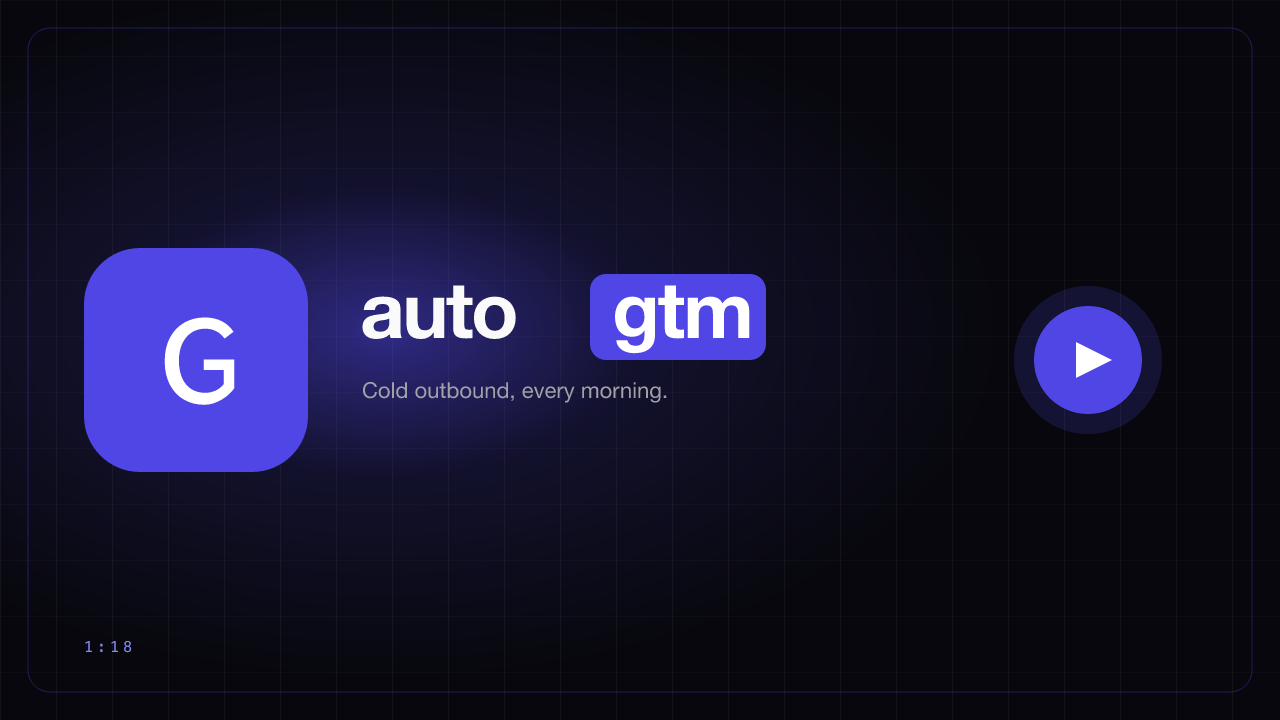
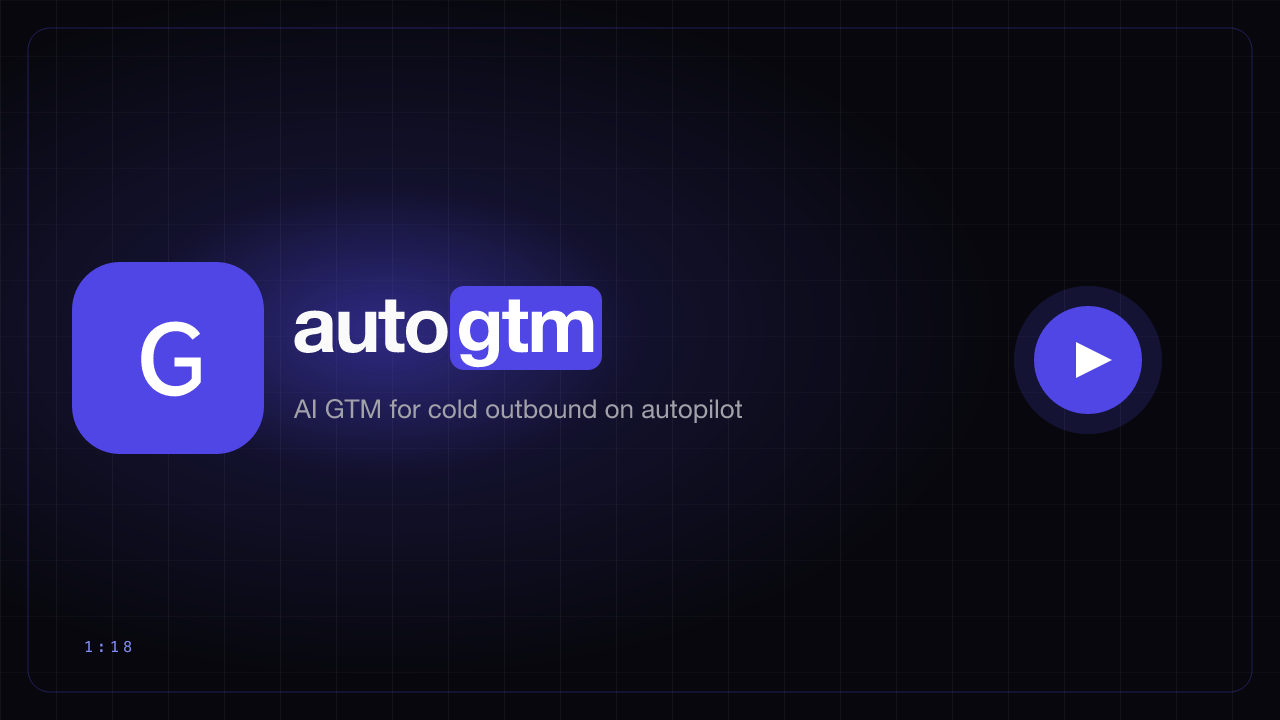
Restore the README and tighten the demo poster.
The old copy is back, the poster links to the hosted demo, and auto/gtm sit together under the real tagline.

Changed region(s): [[0.0312, 0.3361, 0.625, 0.6722]]

diff --git a/README.md b/README.md
@@ -1,74 +1,149 @@
+
+
 # autogtm
 
-An open-source GTM engine for cold outbound. You describe the buyer in plain English. autogtm searches, scores the leads, writes a sequence, and sends it through Instantly. With Autopilot on, the 10:00 AM ET sweep sends the top leads on its own.
+**autogtm is an open-source AI GTM engine that runs cold outbound on autopilot.** ⚡
 
-[<img src="docs/explainer/poster.png" alt="Play the one-minute autogtm demo" width="100%">](https://zthpkrurmodfjyzoqmuc.supabase.co/storage/v1/object/public/social-images/demo-video/autogtm-explainer.mp4)
+[![Watch the autogtm product demo](docs/explainer/poster.png)](https://zthpkrurmodfjyzoqmuc.supabase.co/storage/v1/object/public/social-images/demo-video/autogtm-explainer.mp4)
 
-Click the poster to play. 1:18, recorded on a live account.
+A 78-second walkthrough of the live app: lead briefs in, enriched and fit-scored leads out, per-lead draft campaigns sent through Instantly by hand or by Autopilot.
 
-## How a lead gets sent
+Describe your target audience in plain English with optional targeted briefs, and autogtm discovers leads daily, enriches them with AI, creates tailored email campaigns, and sends via Instantly. System on, autopilot on, you sleep.
 
-1. Fill in a Company Profile so search has a company to work from. Add a Lead Brief when you want a specific kind of person ("acting coaches on TikTok with 10k+ followers"). Queue the brief for the morning run, or choose Run now.
-2. At 8:30 AM ET, queued briefs become search queries. At 9:00 AM ET, Exa runs them and returns people.
-3. Each lead gets a bio, social links, audience size, expertise tags, and a 1–10 fit score with a written reason.
-4. Each lead also gets a draft multi-step sequence. You click Create and Start Campaign, or you leave it for Autopilot.
-5. At 10:00 AM ET, with Autopilot on, the top N Ready-to-Add leads above your fit-score floor are added to their campaigns. A digest lists what was added and to which campaign.
-6. Instantly status and analytics sync every hour. At 2:00 PM ET a second digest covers leads found, emails sent, opens, and replies.
+---
 
-When no new briefs are waiting, exploration mode writes its own queries so the next morning still has searches to run.
+## How it works
 
-Fresh-copy Autopilot can rewrite a draft against the lead's bio right before the send, so a sequence written earlier does not go out stale.
+1. **You set context** — fill in the Company Profile so the AI can search broadly. Optionally add **Lead Briefs** to pinpoint specific kinds of leads ("acting coaches on TikTok with 10k+ followers").
+2. **Choose execution mode per brief**:
+  - `Queue`: picked up by scheduled generation/run.
+  - `Run now`: generates and starts search immediately.
+3. **AI generates search queries** from your context + briefs.
+4. **Exa runs search and extracts leads** with enrichment hints.
+5. **AI enriches leads** (bio, fit score, contact context).
+6. **AI creates a draft campaign per lead** for review.
+7. **Approve and send** — either you manually review and click "Create and Start Campaign", or **Autopilot** sweeps the backlog daily at 10am ET and sends the top N qualifying leads on its own.
+8. **Instantly status + analytics sync hourly**; daily digest summarizes what went out.
 
-System off stops search, enrichment, campaigns, and Autopilot. Each company has its own switch, and one dashboard can hold several companies.
+### Controls
 
-## Schedule
 
-Times are America/New_York.
+| Toggle               | What it does                                                                                                                                                                                                                            |
+| -------------------- | --------------------------------------------------------------------------------------------------------------------------------------------------------------------------------------------------------------------------------------- |
+| **System ON/OFF**    | Master switch. When OFF, nothing runs. No searches, no enrichment, no campaigns. Turning this off also pauses Autopilot.                                                                                                                |
+| **Autopilot ON/OFF** ⚡ | When ON, every day at 10am ET the top N Ready-to-Add leads (configurable fit-score threshold + daily limit) are auto-added to their suggested campaigns and a digest email is sent summarizing the run. Configure in the Autopilot tab. |
 
-| When | What runs |
-| --- | --- |
-| 8:30 AM | Queued briefs become search queries |
-| 9:00 AM | Exa search, then enrichment |
-| 10:00 AM | Autopilot sweep and its digest |
-| Hourly | Instantly status and analytics |
-| 2:00 PM | Discovery digest |
 
-## Run it
+### Daily schedule
 
-Accounts: [Supabase](https://supabase.com), [Exa](https://exa.ai), [Instantly](https://instantly.ai), [OpenAI](https://platform.openai.com), and [Inngest](https://inngest.com). [Resend](https://resend.com) is only for the digests. Node.js 18 or newer.
+
+| Time        | What happens                                                                          |
+| ----------- | ------------------------------------------------------------------------------------- |
+| 8:30 AM     | Generate queued search queries from briefs and company context                        |
+| 9:00 AM     | Run searches, discover and enrich leads                                               |
+| 10:00 AM ET | **Autopilot sweep** — auto-add top N Ready-to-Add leads + digest email (when enabled) |
+| Hourly      | Sync campaign status and analytics from Instantly                                     |
+| 2:00 PM ET  | Send daily discovery digest email                                                     |
+
+
+---
+
+## Features
+
+- **AI lead discovery:** Exa.ai websets find people matching your natural-language description.
+- **AI enrichment:** Bio, social links, audience size, expertise tags, and a 1-10 fit score with reasoning.
+- **AI email copywriting:** Personalized multi-step sequences generated per lead draft.
+- **Campaign management:** Draft-first campaigns with controlled start in Instantly.ai.
+- **System + Autopilot toggles:** Company-level master switch plus a daily Autopilot sweep that auto-adds the top N qualifying leads each morning (configurable daily limit, minimum fit score, and digest email).
+- **Fresh-copy Autopilot:** Optional "regenerate draft before adding" — rewrites each draft's sequence against the lead's bio/expertise right before sending so stale templated copy never goes out.
+- **Exploration mode:** When no new briefs exist, AI generates creative queries to keep pipeline coverage fresh.
+- **Daily digests:** Two summary emails — a per-company Autopilot digest (what was auto-added and to which campaigns) and a global discovery digest (leads found, emails sent, opens, replies).
+- **Multi-company:** Manage multiple company profiles from a single dashboard.
+
+## Stack
+
+
+| Layer           | Technology                                                                          |
+| --------------- | ----------------------------------------------------------------------------------- |
+| Framework       | [Next.js 15](https://nextjs.org) (App Router)                                       |
+| Frontend        | React 19, [Tailwind CSS](https://tailwindcss.com), [Radix UI](https://radix-ui.com) |
+| Database + Auth | [Supabase](https://supabase.com) (PostgreSQL + Auth)                                |
+| Background Jobs | [Inngest](https://inngest.com)                                                      |
+| Lead Discovery  | [Exa.ai](https://exa.ai) (Websets API)                                              |
+| Email Sending   | [Instantly.ai](https://instantly.ai)                                                |
+| AI              | [OpenAI](https://openai.com) (GPT-4.1 / GPT-5-mini)                                 |
+| Digest Emails   | [Resend](https://resend.com)                                                        |
+
+
+---
+
+## Getting Started
+
+### Prerequisites
+
+Accounts needed:
+
+- [Supabase](https://supabase.com) — database and authentication
+- [Exa.ai](https://exa.ai) — lead discovery via Websets API
+- [Instantly.ai](https://instantly.ai) — email campaign sending
+- [OpenAI](https://platform.openai.com) — AI enrichment and generation
+- [Inngest](https://inngest.com) — background job scheduling
+- [Resend](https://resend.com) — daily digest emails (optional)
+
+Locally: Node.js 18+ and npm.
+
+### Setup
 
 ```bash
-git clone https://github.com/cmn-labs/autogtm.git
+# Clone and install
+git clone https://github.com/your-org/autogtm.git
 cd autogtm
 npm install
+
+# Configure environment
 cp apps/autogtm/.env.example apps/autogtm/.env.local
+# Fill in values in .env.local
+
+# Run
 npm run dev
 ```
 
-The app is at [http://localhost:3200](http://localhost:3200). In a second terminal:
+The app runs at [http://localhost:3200](http://localhost:3200).
+
+For background jobs, run the Inngest dev server in a separate terminal:
 
 ```bash
 npx inngest-cli@latest dev
 ```
 
-In the Supabase SQL editor, run [schema.sql](./schema.sql). That creates the tables, indexes, RLS policies, and helper functions. On an existing project, apply [migrations/](./migrations/) instead. Those files are safe to re-run.
+**Supabase Setup**
 
-## Stack
+Create a new Supabase project at [supabase.com](https://supabase.com), then:
 
-| | |
-| --- | --- |
-| App | [Next.js 15](https://nextjs.org) (App Router), React 19, [Tailwind CSS](https://tailwindcss.com), [Radix UI](https://radix-ui.com) |
-| Data and auth | [Supabase](https://supabase.com) |
-| Jobs | [Inngest](https://inngest.com) |
-| Search | [Exa](https://exa.ai) Websets |
-| Sending | [Instantly](https://instantly.ai) |
-| Models | [OpenAI](https://openai.com) (GPT-4.1 / GPT-5-mini) |
-| Digests | [Resend](https://resend.com) |
+1. Open your project dashboard
+2. Go to **SQL Editor**
+3. Paste the contents of `[schema.sql](./schema.sql)` and run it
 
-## Deploy
+This creates all required tables, indexes, RLS policies, and helper functions.
 
-Any Next.js host works. On Vercel, set the environment variables, point Inngest at `/api/inngest`, and use a paid Supabase plan if you need the higher limits.
+If you already have a Supabase project from an earlier version, apply incremental migrations from `[migrations/](./migrations/)` instead — they're safe to re-run (`IF NOT EXISTS` guarded).
+
+
+
+## Deployment
+
+autogtm is a standard Next.js app. Deploy to any platform that supports it:
+
+- **Vercel** — recommended, zero-config Next.js deployment
+
+Make sure to:
+
+1. Set all environment variables in your hosting platform
+2. Connect your Inngest app to receive webhooks at `/api/inngest`
+3. Ensure your Supabase project is on a paid plan if you need higher limits
 
 ## License
 
-[AGPL-3.0](LICENSE). You can use it, change it, and ship it. If you run a modified version as a service, that version's source has to be available to its users.
+Licensed under [AGPL-3.0](LICENSE).
+
+**TL;DR:** You can use it, change it, and ship it; if you run a modified version as a service (e.g. a hosted app), you must make that version’s source code available to your users.
